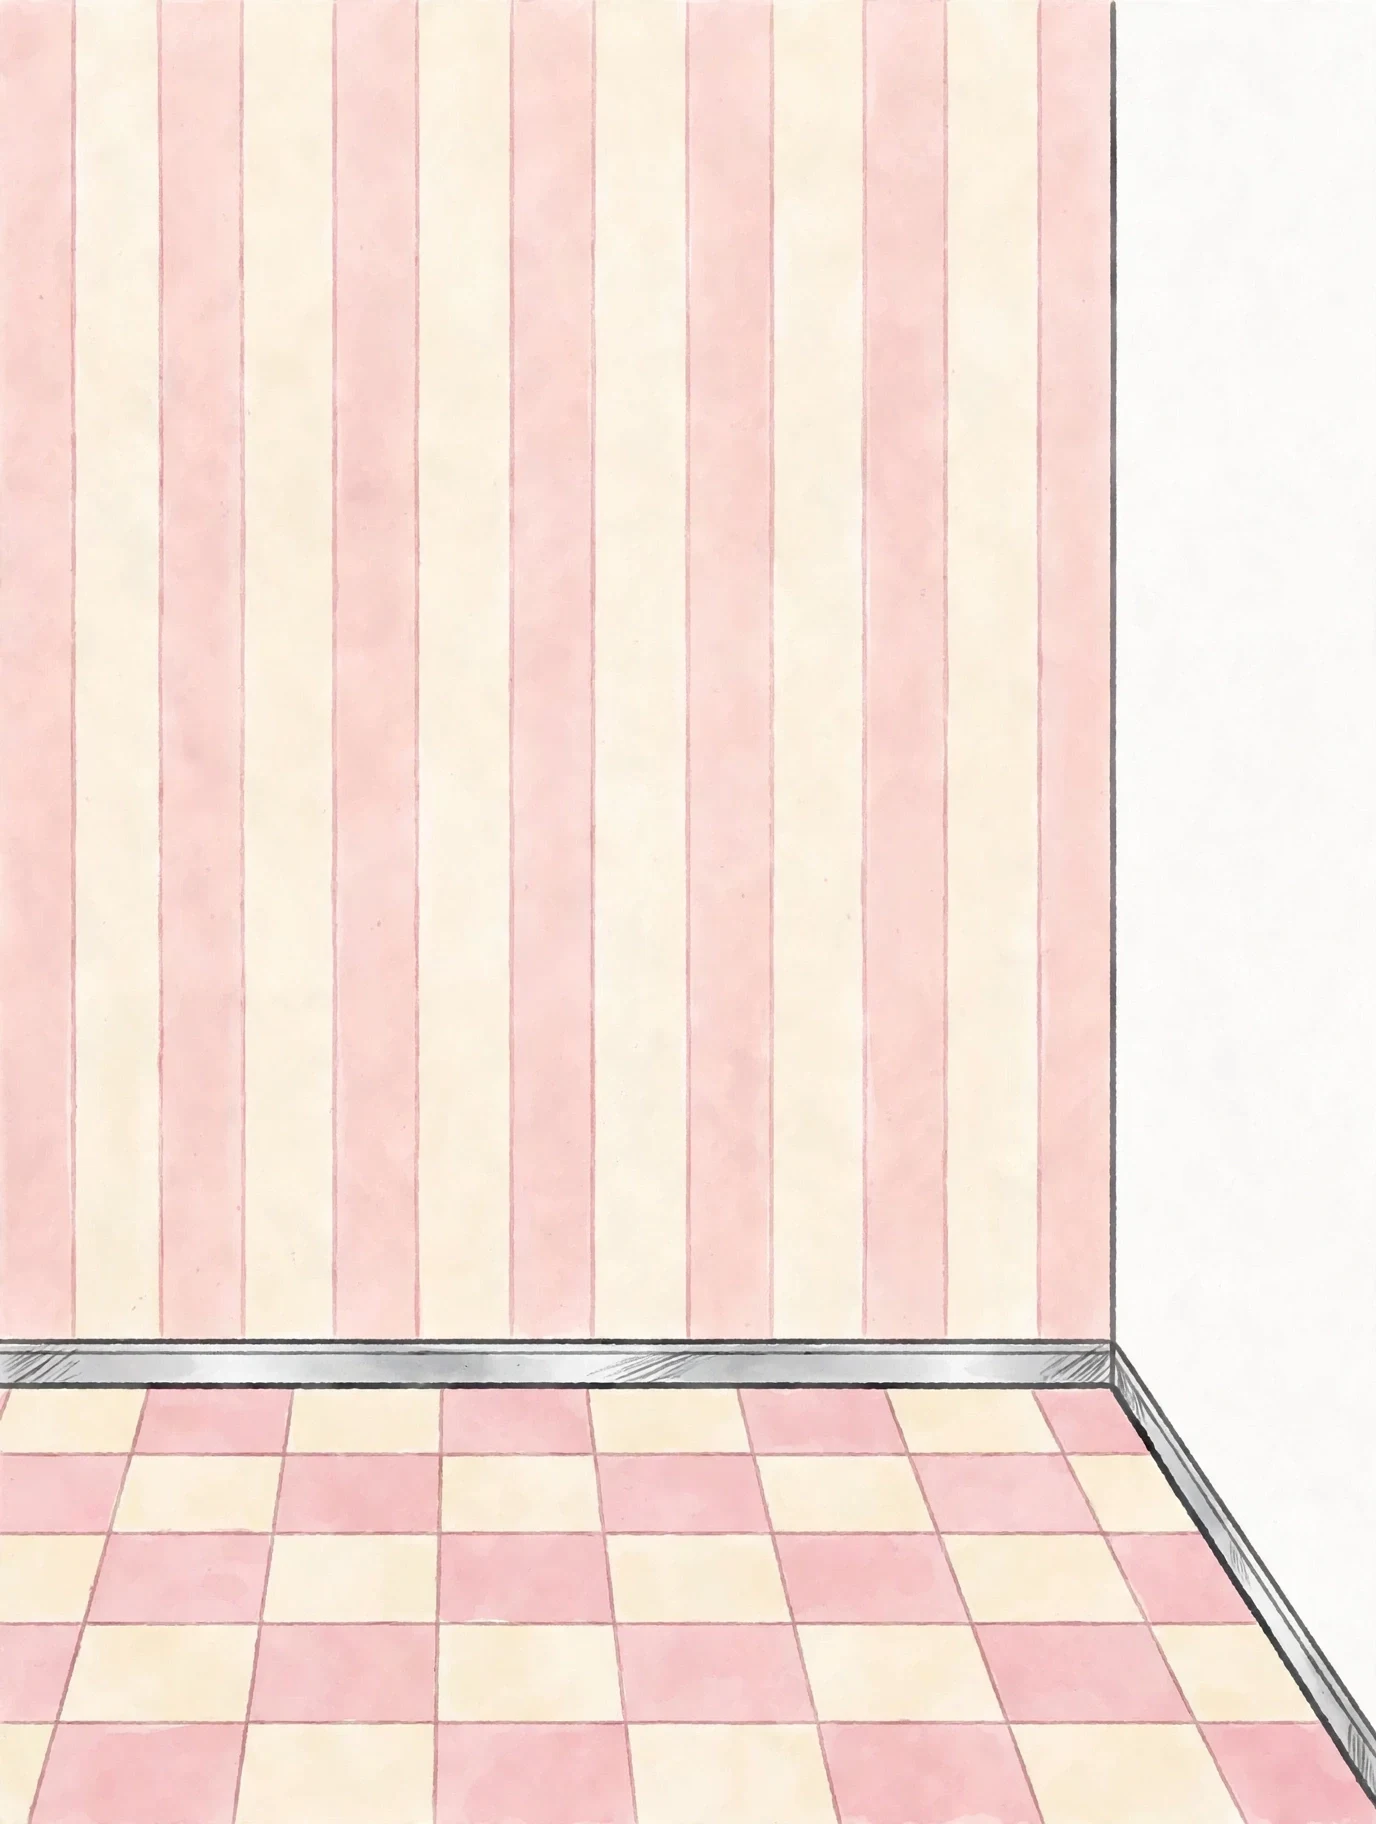
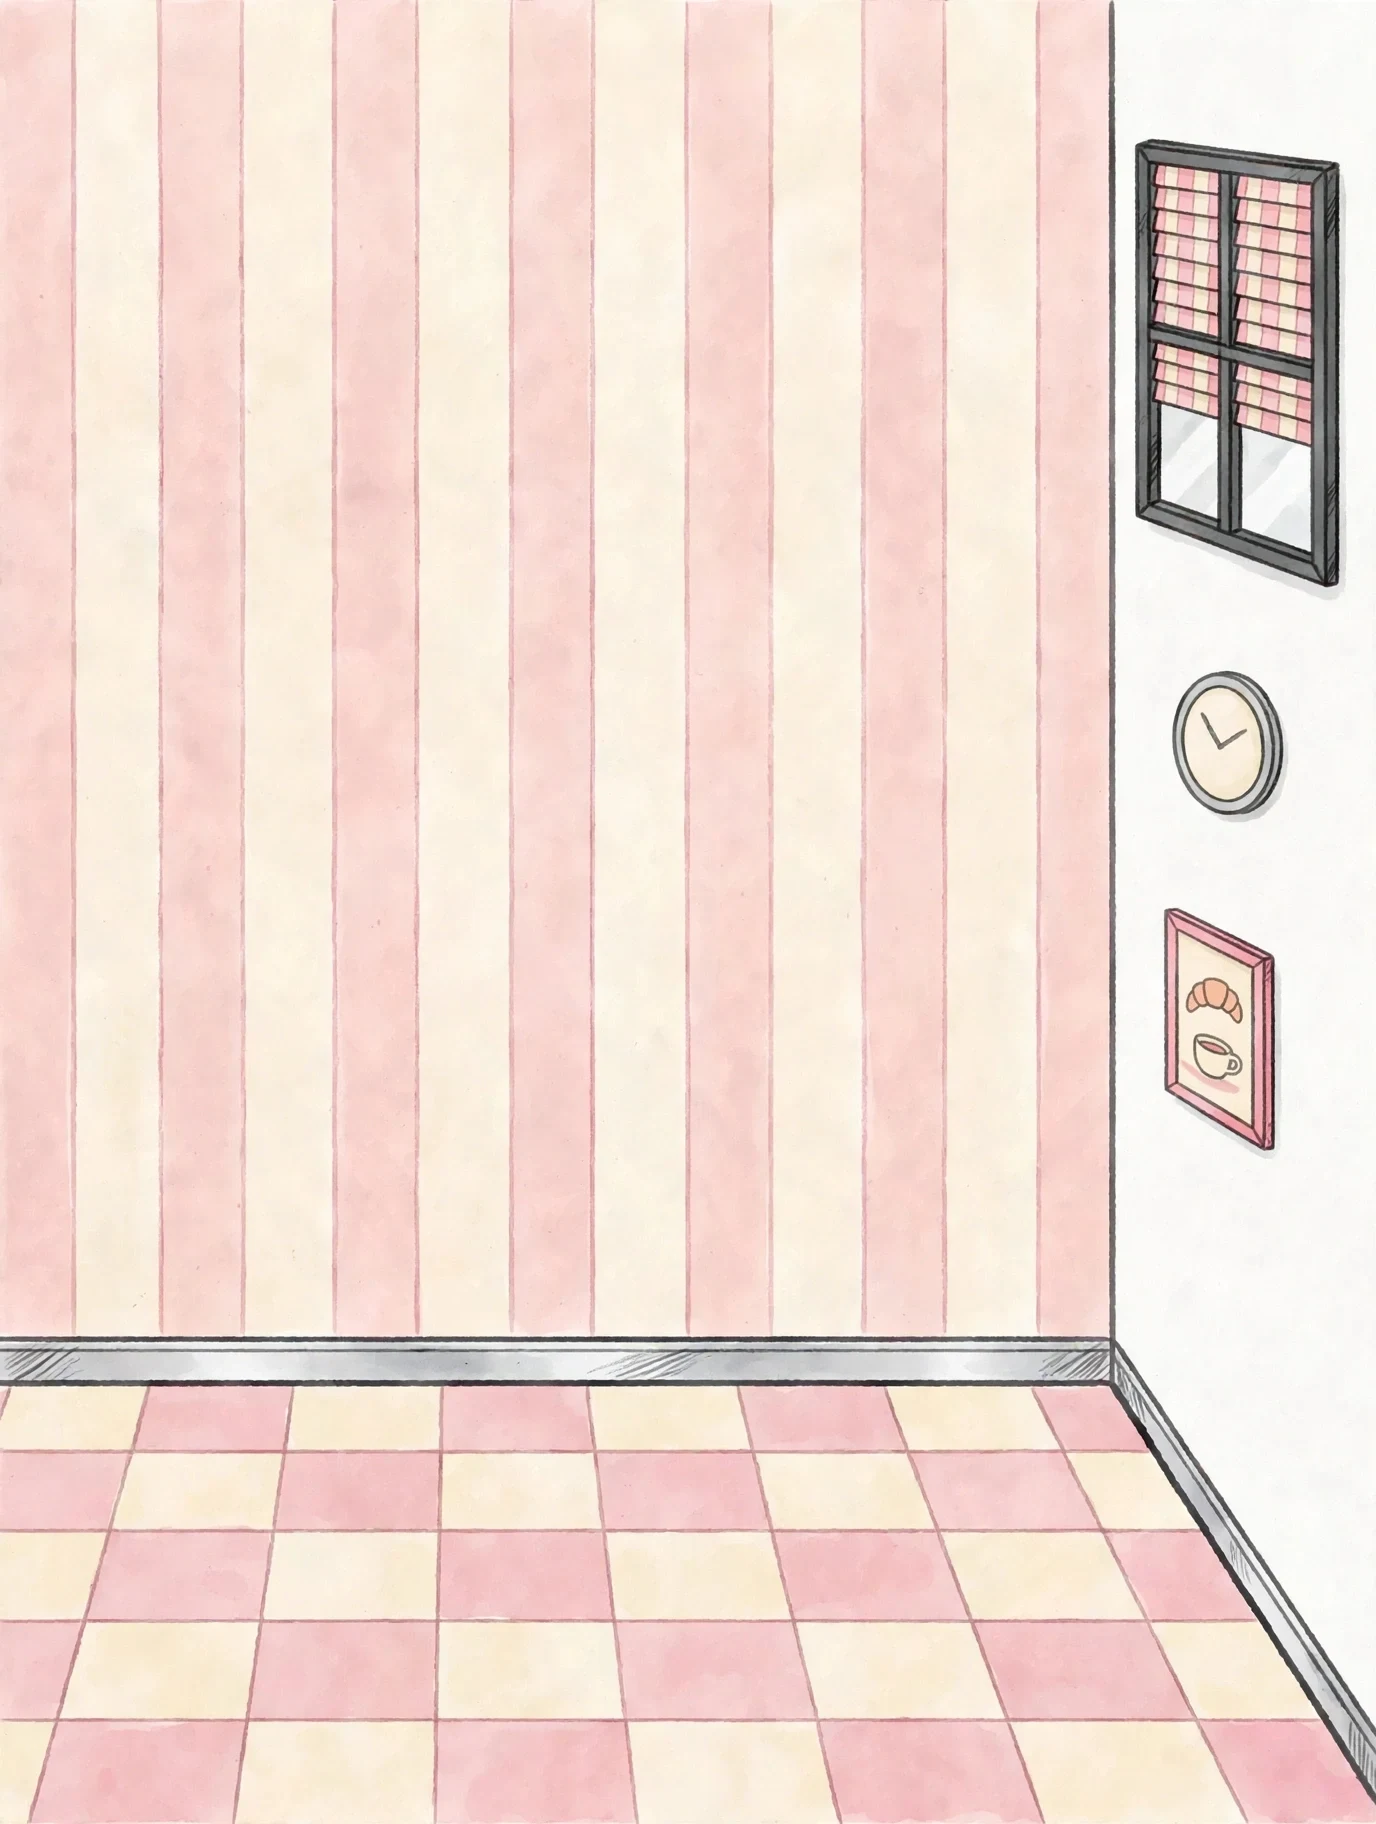
preview-diner：右壁に窓・時計・メニュー額を追加／棚のカード高さを統一（タイトル・日付の行を固定し応援を下端に）／ドアを豪華に（蹴板・押しバー・窓の光沢＋OPEN札）し、アニメを『開く→光が床に漏れる→部屋が寄って吸い込まれる』に作り替え

diff --git a/preview-diner/index.html b/preview-diner/index.html
@@ -885,6 +885,23 @@ background:repeating-conic-gradient(var(--dn-pink-soft) 0% 25%, #fff 0% 50%) 0 0
 #storageDoor .cap{position:static; transform:none; color:#FFF6EC; font-size:12px}
 #storageDoor.leaving img{animation:doorSwing .32s ease-in-out 2; transform-origin:left center}
 @keyframes doorSwing{0%,100%{transform:rotateY(0)}50%{transform:rotateY(-58deg)}}
+
+/* ===== door richness + motion, shelf equal heights ===== */
+#obj-door .door-leafwrap{transition:transform .8s cubic-bezier(.22,.9,.28,1.08)}
+#obj-door .door-glow{background:linear-gradient(160deg,#fffbe9,#ffe3f0 55%,#ffd0e4); filter:brightness(1.06)}
+.door-floorlight{position:absolute; left:-38%; bottom:-4.5%; width:175%; height:11%; background:linear-gradient(100deg,rgba(255,240,200,0),rgba(255,240,200,.85) 30%,rgba(255,214,232,.55) 75%,rgba(255,214,232,0)); clip-path:polygon(6% 18%,100% 0,94% 100%,0 82%); opacity:0; transition:opacity .5s ease .12s; pointer-events:none}
+#obj-door.opening .door-floorlight{opacity:.9}
+.door-sign{position:absolute; left:50%; top:21%; transform:translateX(-50%) rotate(-4deg); background:#33262E; color:#FFF6EC; font-family:Quicksand,sans-serif; font-weight:700; font-size:clamp(7px,2vw,10px); letter-spacing:.22em; padding:.28em .7em .28em .95em; border:1.5px solid #C9D2D9; border-radius:999px; box-shadow:0 2px 5px rgba(43,36,48,.35); pointer-events:none}
+#obj-door.opening .door-sign{animation:signSway .8s ease-in-out}
+@keyframes signSway{0%,100%{transform:translateX(-50%) rotate(-4deg)}30%{transform:translateX(-50%) rotate(7deg)}65%{transform:translateX(-50%) rotate(-10deg)}}
+#stage{transition:transform .32s ease-in, opacity .32s ease-in; transform-origin:84% 62%}
+#stage.through{transform:scale(1.05); opacity:.2}
+#storageView .shelf-items{align-items:stretch; justify-content:center; gap:14px}
+#storageView .work{display:flex; flex-direction:column}
+#storageView .work .wlink{flex:1; display:flex; flex-direction:column}
+#storageView .work .wttl{height:35px; overflow:hidden}
+#storageView .work .wdate{min-height:17px}
+#storageView .work .cheer{margin-top:auto}
 </style>
 </head>
 <body>
@@ -998,7 +1015,8 @@ background:repeating-conic-gradient(var(--dn-pink-soft) 0% 25%, #fff 0% 50%) 0 0
 
 <button class="obj" id="obj-door" type="button" aria-label="ドア：作品置き場へ">
 <span class="door-glow" aria-hidden="true"></span>
-<span class="door-leafwrap" aria-hidden="true"><img src="diner-img/door.webp" alt=""><span class="door-glint">✦</span></span>
+<span class="door-floorlight" aria-hidden="true"></span>
+<span class="door-leafwrap" aria-hidden="true"><img src="diner-img/door.webp" alt=""><span class="door-glint">✦</span><span class="door-sign" aria-hidden="true">OPEN</span></span>
 </button>
 
 <button class="obj" id="obj-post" type="button" data-panel="post" aria-label="ポスト：応援メッセージ">
@@ -1930,7 +1948,7 @@ var face = w.img
 var disc = cat === 'music' ? '<span class="disc" aria-hidden="true"></span>' : '';
 var cheer = w.id ? '<button type="button" class="cheer" data-cheer="' + w.id + '" aria-label="' + w.title + 'を応援する"><span class="c-heart" aria-hidden="true">♥</span>応援<span class="cheer-n">…</span></button>' : '';
 var badge = '';
-var wdate = w.date ? '<span class="wdate">' + w.date.replace(/-/g,'.') + ' 公開</span>' : '';
+var wdate = '<span class="wdate">' + (w.date ? w.date.replace(/-/g,'.') + ' 公開' : '') + '</span>';
 return '<div class="work' + (big ? ' big' : '') + '">'
 + '<a class="wlink" href="' + w.href + '" target="_blank" rel="noopener" aria-label="' + w.title + '">'
 + '<span class="obj3d o-' + form + '">' + disc + '<span class="cover">' + face + '</span></span>' + badge
@@ -2071,8 +2089,10 @@ doorBtn.addEventListener('click', function(){
 if (doorBusy || storageOpen) return;
 doorBusy = true;
 doorBtn.classList.add('opening');
-setTimeout(function(){ goStorage();}, reduceMotion ? 60 : 820);
-setTimeout(function(){ doorBtn.classList.remove('opening'); doorBusy = false;}, 1500);
+var stageEl = document.getElementById('stage');
+if (!reduceMotion) setTimeout(function(){ stageEl.classList.add('through'); }, 560);
+setTimeout(function(){ goStorage();}, reduceMotion ? 60 : 900);
+setTimeout(function(){ doorBtn.classList.remove('opening'); stageEl.classList.remove('through'); doorBusy = false;}, 1700);
 });
 
 /* ---------- 隠し要素：植物を5回タップで花 ---------- */
